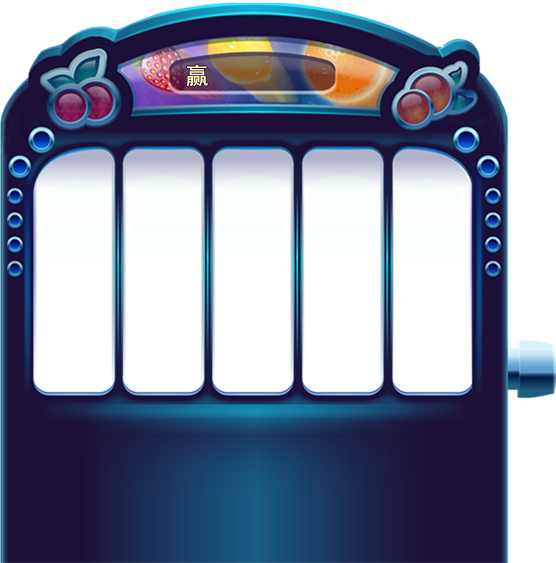
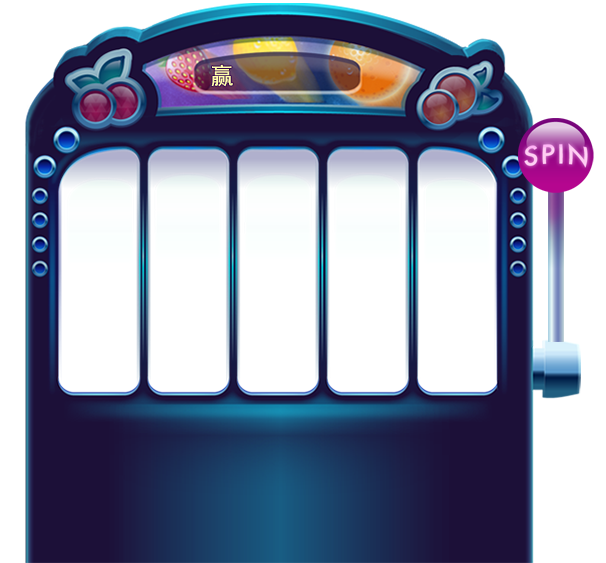
refactor the size

diff --git a/app/scripts/main.js b/app/scripts/main.js
@@ -1,10 +1,34 @@
+/**
+ *中彩汇slots machine
+ *
+ *note:
+ *machine body image sie:606*563
+ *image padding left 25px
+ *
+ **/
+
+//the main slot class
+
 var Slots = (function() {
-    //the main slot class
-    
+    var WINDOW_WIDTH = window.innerWidth,
+        WINDOW_HEIGHT = window.innerHeight,
+        bodyImagesSize = {
+            width: 606,
+            height: 563
+        },
+        realBodyImageWidth = ~~WINDOW_WIDTH,
+        realBodyImageHeight = ~~ ((bodyImagesSize.height / bodyImagesSize.width) * realBodyImageWidth),
+        canvas = $('#canvas')[0],
+        ctx = canvas.getContext("2d");
+
+
+
     return {
         init: function() {
             //initialize all stuff
-            console.info('game initalized!');
+            //set canvas size
+            ctx.canvas.width = realBodyImageWidth,
+            ctx.canvas.height = realBodyImageHeight;
         }
     };
 })();

diff --git a/app/index.html b/app/index.html
@@ -15,8 +15,6 @@
             <div class="placehoder-top"></div>
             <div class="machine">
                 <img src="images/slots_body_fruit.png" alt="" class="slots-body">
-                 <img src="images/slots_handle_fruit.png" alt="" class="slots-spin-btn">
-                <img src="images/slots_arm_fruit.png" alt="" class="slots-handler">
                 <canvas id="canvas">canvas not support :(</canvas>
             </div>
         </div>

diff --git a/app/styles/main.css b/app/styles/main.css
@@ -32,7 +32,7 @@ body {
     position: relative;
 }
 img.slots-body {
-    width: 90%;
+    width: 100%;
     position: relative;
     z-index: 2;
 }
@@ -53,7 +53,6 @@ img.slots-spin-btn {
 }
 #canvas {
     width: 100%;
-    height: 250px;
     background-color: #ddd;
     position: absolute;
     top: 0;
